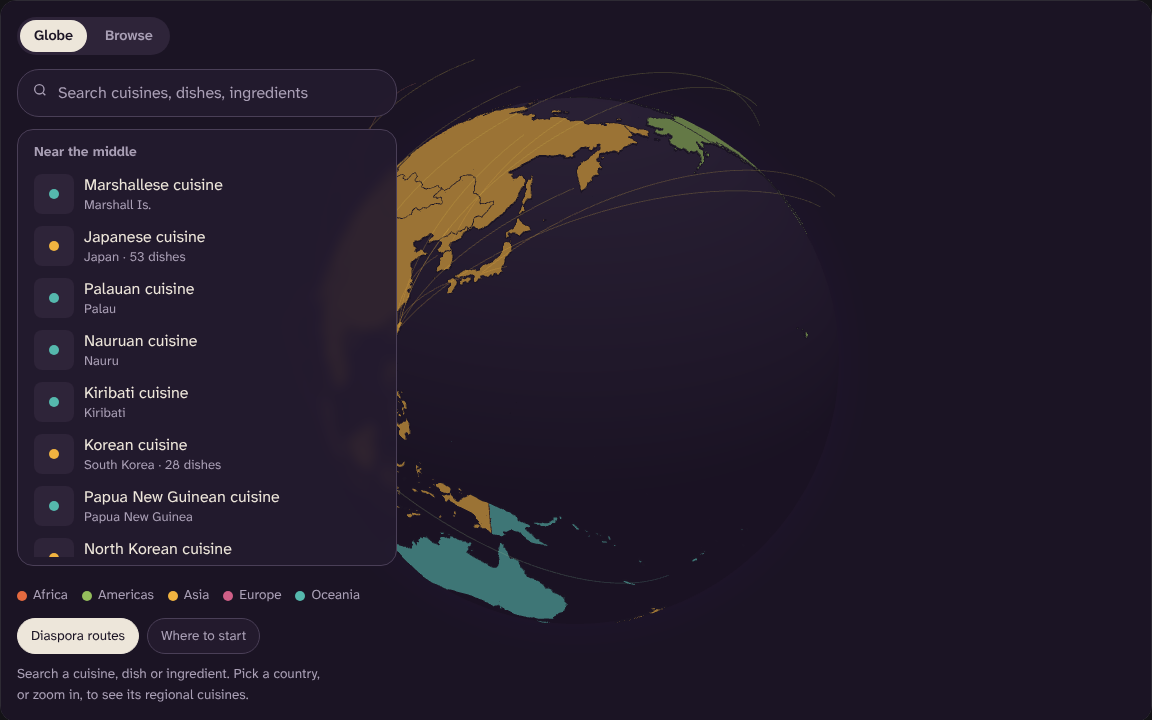
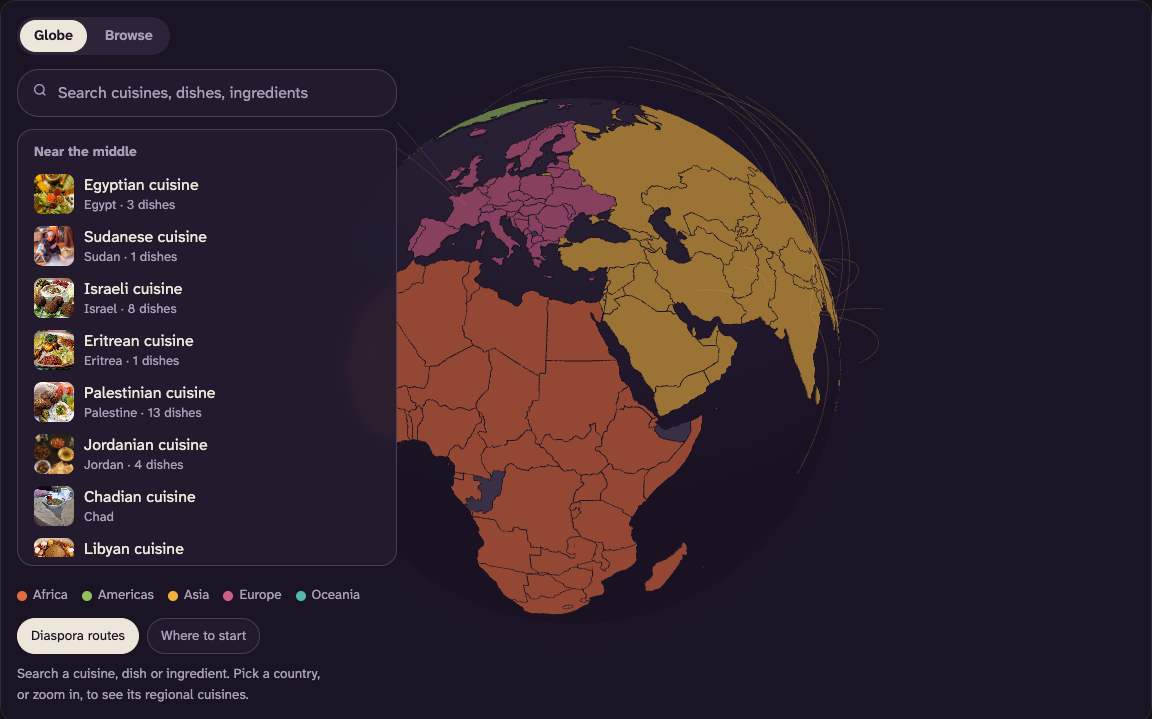
Lab cards: World transit shows the whole globe, World cuisine shows land instead of open ocean

diff --git a/src/data/projects.ts b/src/data/projects.ts
@@ -52,7 +52,7 @@ export const projects: Project[] = [
     started: 'November 2026',
     // The repo kept its first name when the experiment was renamed World cuisine.
     repo: 'kyle-pace/cuisine-explorer',
-    imageAlt: 'A globe turned to East Asia and the Pacific, beside a search box and a list of nearby cuisines.',
+    imageAlt: 'A globe turned to Europe, Africa and the Middle East, countries colored by continent, beside a search box and a list of nearby cuisines.',
   },
   {
     slug: 'world-transit',
@@ -65,7 +65,7 @@ export const projects: Project[] = [
     started: 'November 2026',
     repo: 'kyle-pace/world-transit',
     imageAlt:
-      'Seattle on a dark map, crossed by colored bus, light rail and ferry lines with live vehicle dots, beside a green sign reading World transit with search and a legend.',
+      'A dark globe over the North Atlantic, with Europe thick with colored transit lines and more along the US East Coast, beside a green sign reading World transit with search and a legend.',
   },
   {
     slug: 'recipe-search',

diff --git a/scripts/screenshot-projects.py b/scripts/screenshot-projects.py
@@ -35,8 +35,9 @@ SELECTORS = {
 
 # A state worth showing, for projects that open empty.
 PATHS = {
-    "world-transit": "?at=-122.33,47.6,10.5",
+    "world-transit": "?at=-25,42,2.2",  # the whole globe: North America, Europe and Africa
     "live-earth": "?sat=east&view=earth",
+    "world-cuisine": "?lng=30",  # Europe, Africa and Asia, not open ocean
     "recipe-search": "?with=ginger,tofu&site=woks",
 }
 
